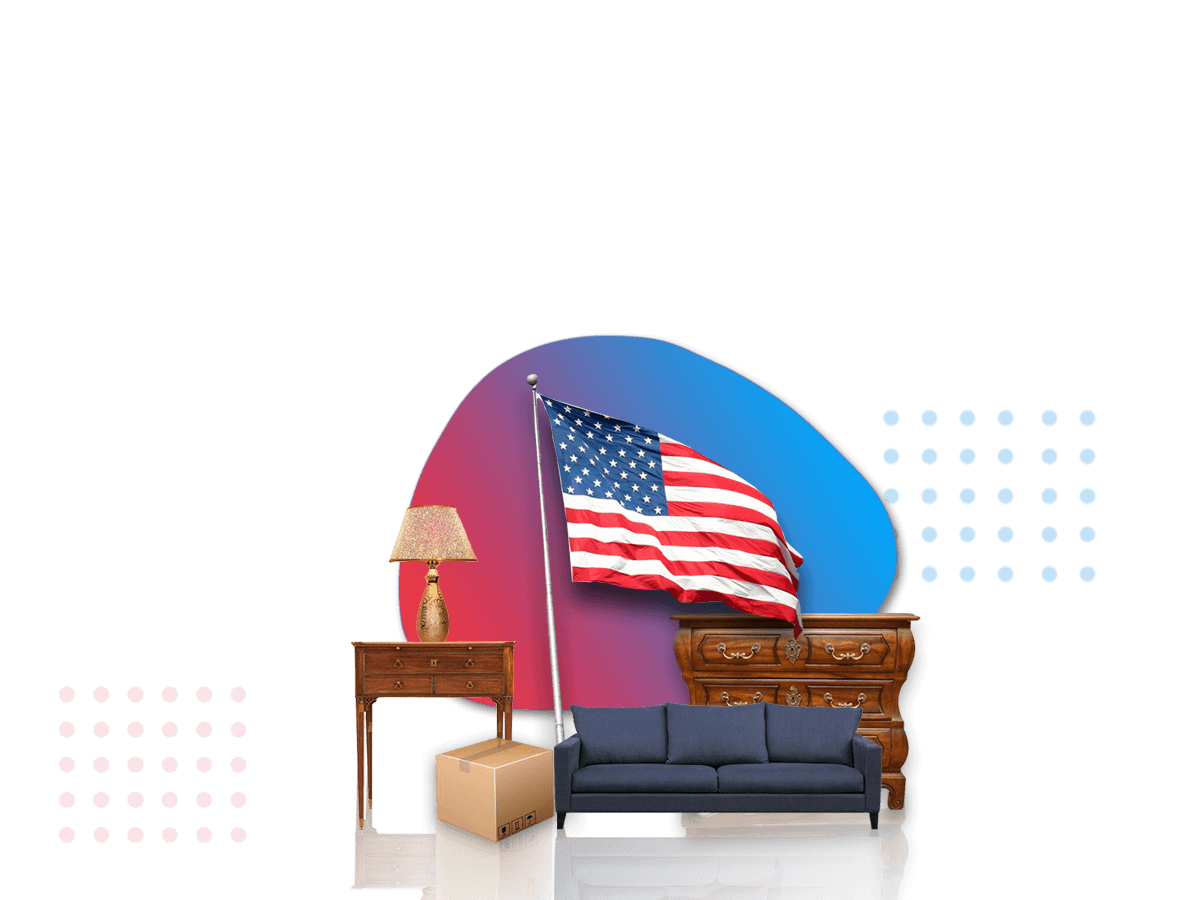
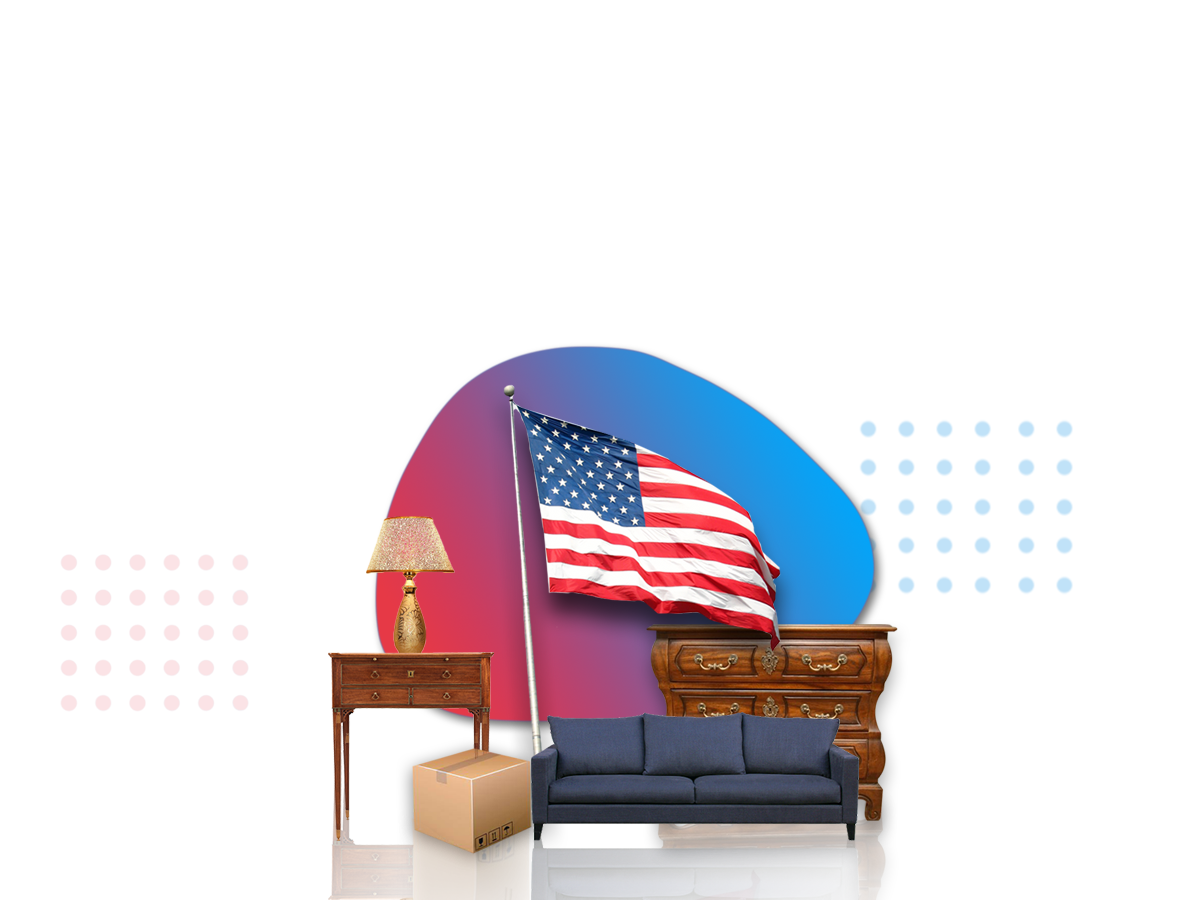
Fixed responsive issues with landingpage2

Changed region(s): [[0.2467, 0.3733, 0.925, 1.0], [0.0308, 0.6222, 0.2158, 0.9333]]

diff --git a/src/styles/home.scss b/src/styles/home.scss
@@ -21,7 +21,9 @@
     z-index: 1;
     @media screen and (max-width: 1300px) {
       background: url("../assets/landingpagemedium.png");
-      background-position: center;
+      background-position: bottom;
+      background-size: auto;
+      background-repeat: no-repeat;
     }
   }
   .star {
@@ -138,6 +140,11 @@
     background-repeat: no-repeat;
     background-size: contain;
     background-position: top;
+    @media screen and (max-width: 1300px) {
+      background: url("../assets/topwavemedium.png");
+      background-position: top;
+      background-size: auto;
+    }
   }
   .about-row {
     position: relative;

diff --git a/src/styles/home.css b/src/styles/home.css
@@ -34,7 +34,9 @@
 @media screen and (max-width: 1300px) {
   .landing-page-cnt .landingpage-bg {
     background: url("../assets/landingpagemedium.png");
-    background-position: center;
+    background-position: bottom;
+    background-size: auto;
+    background-repeat: no-repeat;
   }
 }
 
@@ -195,6 +197,14 @@
   background-repeat: no-repeat;
   background-size: contain;
   background-position: top;
+}
+
+@media screen and (max-width: 1300px) {
+  .about-section .topwave {
+    background: url("../assets/topwavemedium.png");
+    background-position: top;
+    background-size: auto;
+  }
 }
 
 .about-section .about-row {

diff --git a/src/components/infobox.js b/src/components/infobox.js
@@ -5,14 +5,13 @@ import "aos/dist/aos.css";
 function InfoBox(props) {
   useEffect(() => {
     AOS.init();
-    AOS.refresh();
   }, []);
 
   return (
-    <Col xl={3} lg={2} className="info-col">
+    <Col xl={3} lg={6} className="info-col">
       <div
         data-aos={props.animation}
-        data-aos-offset="500"
+        data-aos-offset="100"
         className="inner-col"
       >
         <img
